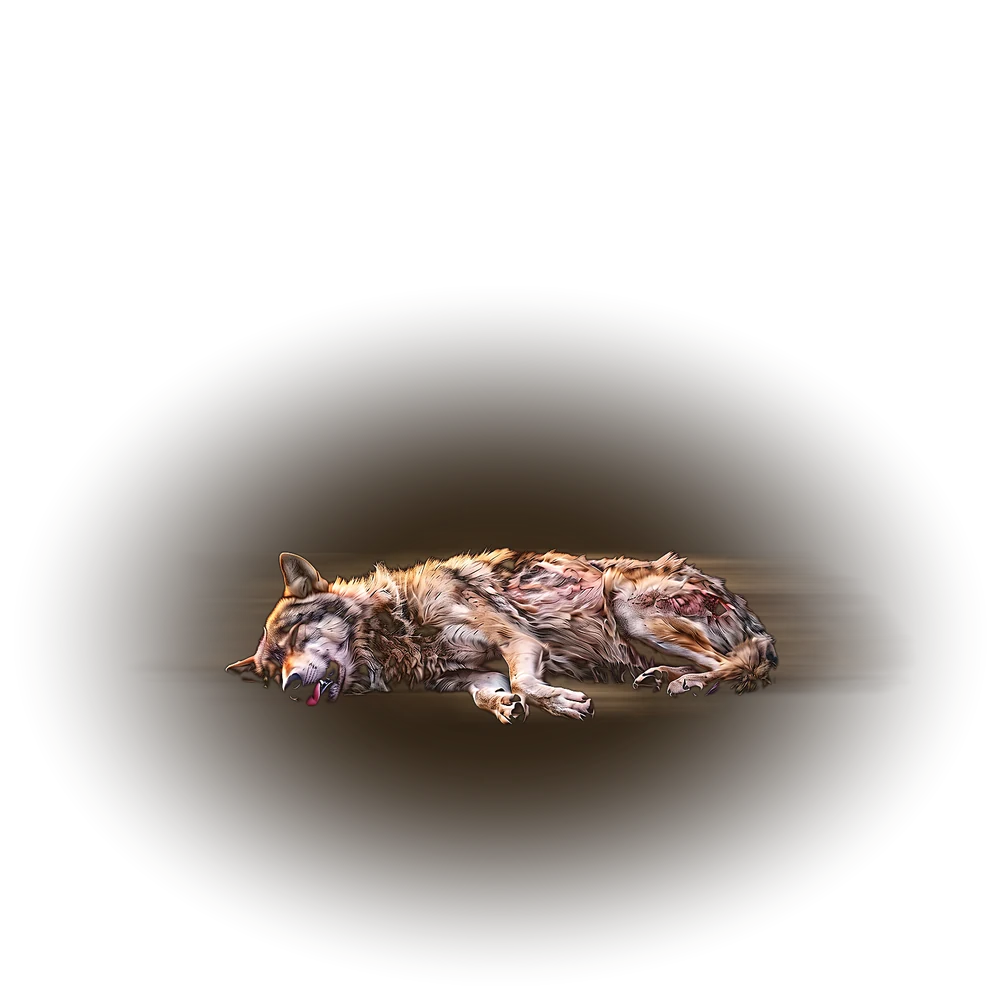
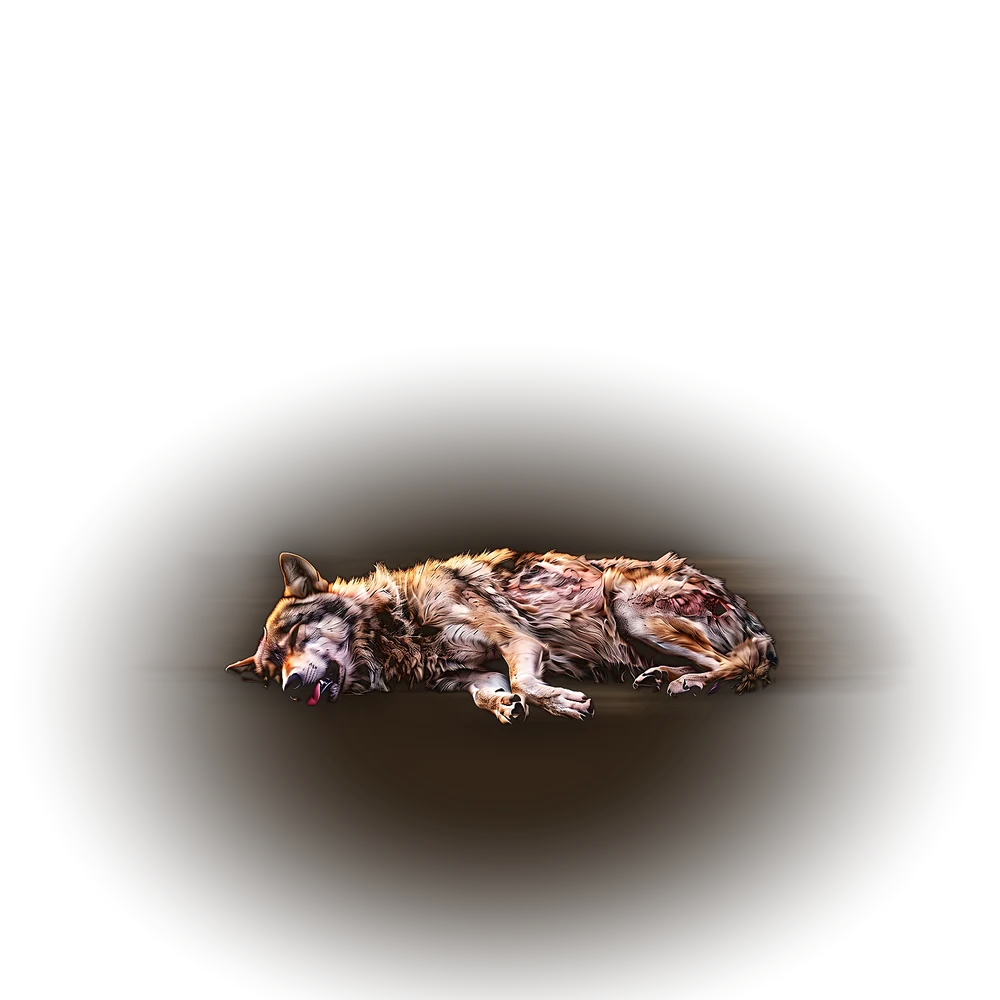
v4.4 separated wolf frames

Changed region(s): [[0.124, 0.31, 0.868, 1.0], [0.496, 0.558, 0.527, 0.589]]

diff --git a/preview.html b/preview.html
@@ -27,7 +27,7 @@
 <div class="pv">
   <h1>Wolf, 1 to 10</h1>
   <div class="stagebox">
-    <div class="hero"><div class="stage-art" id="wolfArt"><img class="a" id="wolfImg" src="img/wolf/01.webp?v=39" alt=""><span class="flick"></span><span class="flick b"></span></div></div>
+    <div class="hero"><div class="stage-art" id="wolfArt"><img class="a" id="wolfImg" src="img/wolf/01.webp?v=40" alt=""><span class="flick"></span><span class="flick b"></span></div></div>
     <div class="ctl"><button id="wPrev">‹</button><input type="range" id="wRange" min="1" max="10" value="1"><span class="n" id="wN">1</span><button id="wNext">›</button></div>
     <button class="btn play" id="wPlay">Play</button>
   </div>
@@ -79,10 +79,10 @@ for (const k in O){
   s.insertAdjacentHTML('beforeend',`<div class="ico"><span class="ic"><svg viewBox="0 0 20 20" fill="currentColor">${S[k]}</svg></span><span>${names[k]}</span></div>`);
 }
 function wire(kind,img,range,n,prev,next,play){
-  const set=v=>{v=Math.min(10,Math.max(1,v));range.value=v;n.textContent=v;if(img.tagName==='VIDEO'){img.poster=`img/${kind}/${String(v).padStart(2,'0')}.webp`;img.src=`img/${kind}/${String(v).padStart(2,'0')}.mp4`;img.play().catch(()=>{});}else{img.src=`img/${kind}/${String(v).padStart(2,'0')}.webp?v=39`;}};
+  const set=v=>{v=Math.min(10,Math.max(1,v));range.value=v;n.textContent=v;if(img.tagName==='VIDEO'){img.poster=`img/${kind}/${String(v).padStart(2,'0')}.webp`;img.src=`img/${kind}/${String(v).padStart(2,'0')}.mp4`;img.play().catch(()=>{});}else{img.src=`img/${kind}/${String(v).padStart(2,'0')}.webp?v=40`;}};
   range.oninput=()=>set(+range.value); prev.onclick=()=>set(+range.value-1); next.onclick=()=>set(+range.value+1);
   let t=null; play.onclick=()=>{ if(t){clearInterval(t);t=null;play.textContent='Play';return;} let v=1,dir=1; set(1); play.textContent='Stop'; t=setInterval(()=>{v+=dir; if(v>=10||v<=1) dir=-dir; set(v);},kind==='wolf'?2500:450); };
-  for (let i=1;i<=10;i++){ new Image().src=`img/${kind}/${String(i).padStart(2,'0')}.webp?v=39`; }
+  for (let i=1;i<=10;i++){ new Image().src=`img/${kind}/${String(i).padStart(2,'0')}.webp?v=40`; }
 }
 wire('wolf',wolfImg,wRange,wN,wPrev,wNext,wPlay); wire('brain',brainImg,bRange,bN,bPrev,bNext,bPlay);
 (function grain(){const cv=document.getElementById('grain');const c=cv.getContext('2d');const w=400,h=800;cv.width=w;cv.height=h;const f=[];for(let k=0;k<4;k++){const id=c.createImageData(w,h);const d=id.data;for(let i=0;i<d.length;i+=4){const v=96+(Math.random()*128)|0;d[i]=d[i+1]=d[i+2]=v;d[i+3]=255;}f.push(id);}let i=0;setInterval(()=>{c.putImageData(f[i],0,0);i=(i+1)%4;},125);})();

diff --git a/index.html b/index.html
@@ -14,7 +14,7 @@
 <link rel="icon" href="img/icon-180.png">
 <link rel="preload" href="fonts/fraunces-normal.woff2" as="font" type="font/woff2" crossorigin>
 <link rel="preload" href="fonts/archivo-normal.woff2" as="font" type="font/woff2" crossorigin>
-<link rel="stylesheet" href="styles.css?v=25">
+<link rel="stylesheet" href="styles.css?v=26">
 </head>
 <body>
 <!--
@@ -177,7 +177,7 @@ FINISH: unreviewed and undocumented is unfinished; this build ends with the fini
   <div class="sheet-row"><button class="btn" id="btnUpdate">Check for update</button><button class="btn ghost" id="btnClose">Close</button></div>
 </section>
 
-<script src="config.js?v=25"></script>
-<script src="app.js?v=25"></script>
+<script src="config.js?v=26"></script>
+<script src="app.js?v=26"></script>
 </body>
 </html>

diff --git a/sw.js b/sw.js
@@ -1,7 +1,7 @@
 // Wolf service worker: network-first for the app shell so a pushed update reaches the
 // phone on the next open, with the cache as the offline fallback. Artwork and fonts
 // are immutable per version and come from cache first.
-const VERSION = "wolf-v26";
+const VERSION = "wolf-v27";
 const STAGES = [];
 for (const k of ["wolf", "brain"]) for (let i = 1; i <= 10; i++) { const n = String(i).padStart(2, "0"); STAGES.push(`./img/${k}/${n}.webp`); }
 const SHELL = [

diff --git a/app.js b/app.js
@@ -3,7 +3,7 @@
   "use strict";
   const P = window.PLAN;
   const $ = (s) => document.querySelector(s);
-  const VERSION = "4.3";
+  const VERSION = "4.4";
   try { const qs = new URLSearchParams(location.search); if (/^\d{4}-\d{2}-\d{2}$/.test(qs.get("start") || "")) P.start = qs.get("start"); } catch {}
 
   /* ---------- dates ---------- */

diff --git a/tools/process_art11.py b/tools/process_art11.py
@@ -7,7 +7,7 @@ from PIL import Image, ImageFilter
 ROOT = os.path.expanduser("~/Documents/wolf/img")
 ZOOM = {1: 1.04, 2: 1.02, 3: 0.97, 4: 0.98, 5: 1.00, 6: 1.03, 7: 1.06, 8: 1.10, 9: 1.14, 10: 1.18}
 S = 1520; OUT = 1000
-CENTRE = np.array([0x3E, 0x2E, 0x1C], np.float32) / 255   # warm pool under the wolf
+CENTRE = np.array([0x36, 0x28, 0x1A], np.float32) / 255   # warm pool under the wolf
 RIM    = np.array([0x22, 0x1A, 0x13], np.float32) / 255   # near the plate tone, where alpha runs out
 
 def hblur(a, k):
@@ -26,10 +26,10 @@ def key(img):
 
 def grade(rgb):
     """Punch on the wolf only: black point down, S-curve, a little saturation, unsharp."""
-    x = np.clip((rgb - 0.07) / 0.93, 0, 1)                       # deeper blacks
-    x = np.where(x < 0.5, 0.5 * (2 * x) ** 1.35, 1 - 0.5 * (2 * (1 - x)) ** 1.35)   # S-curve
+    x = np.clip((rgb - 0.11) / 0.89, 0, 1)                       # deeper blacks
+    x = np.where(x < 0.5, 0.5 * (2 * x) ** 1.55, 1 - 0.5 * (2 * (1 - x)) ** 1.55)   # S-curve
     lum = (x @ np.array([0.3, 0.59, 0.11], np.float32))[..., None]
-    x = np.clip(lum + (x - lum) * 0.98, 0, 1)                    # saturation
+    x = np.clip(lum + (x - lum) * 0.96, 0, 1)                    # saturation
     im = Image.fromarray((x * 255).astype(np.uint8))
     im = im.filter(ImageFilter.UnsharpMask(radius=2, percent=70, threshold=2))
     return np.asarray(im, np.float32) / 255
@@ -62,7 +62,8 @@ def stage(n, src, dst):
     rgb = grade(rgb)
     ox = (S - side) // 2; oy = max(0, min(S - side, (S - side) // 2 + int((1 - z) * 60)))
     ys_w = np.where(alpha[..., 0].max(1) > 0.5)[0]; cy = oy + (ys_w.min() + ys_w.max()) / 2 if len(ys_w) else S / 2
-    col, acc = pool(cy); col = col.copy(); acc = acc.copy()
+    yb = oy + ys_w.max() if len(ys_w) else S / 2
+    col, acc = pool(cy * 0.35 + yb * 0.65); col = col.copy(); acc = acc.copy()
     def over(lrgb, la, dx, dy, gain):
         ys, xs = slice(oy + dy, oy + dy + side), slice(ox + dx, ox + dx + side)
         a = la * gain
@@ -71,10 +72,12 @@ def stage(n, src, dst):
     prem = rgb * alpha
     grey = (prem @ np.array([0.3, 0.59, 0.11], np.float32))[..., None]
     warm = np.array([1.0, 0.86, 0.66], np.float32)
-    for k, dx, gain in ((int(side * 0.16) | 1, min(int(side * 0.09), ox), 0.42), (int(side * 0.07) | 1, min(int(side * 0.04), ox), 0.30)):
+    for k, dx, gain in ((int(side * 0.16) | 1, min(int(side * 0.09), ox), 0.36), (int(side * 0.07) | 1, min(int(side * 0.04), ox), 0.26)):
         g_rgb = hblur(prem * 0.45 + grey * 0.55, k) * warm; g_a = hblur(alpha, k)
         g_col = np.where(g_a > 1e-4, g_rgb / np.maximum(g_a, 1e-4), 0)
         over(g_col, g_a, dx, 0, gain); over(g_col, g_a, -dx // 2, 0, gain * 0.6)
+    halo = np.asarray(Image.fromarray((alpha[..., 0] * 255).astype(np.uint8)).filter(ImageFilter.MaxFilter(9)).filter(ImageFilter.GaussianBlur(side * 0.022)), np.float32)[..., None] / 255
+    over(np.zeros_like(rgb) + np.array([0.05, 0.035, 0.028], np.float32), halo, 0, 0, 0.72)
     over(np.zeros_like(rgb) + np.array([0.06, 0.04, 0.03], np.float32), contact_shadow(alpha, side), 0, 0, 1.0)
     over(rgb, alpha, 0, 0, 1.0)
     bright = np.clip((col.mean(-1, keepdims=True) - 0.68) / 0.32, 0, 1) * col * acc
